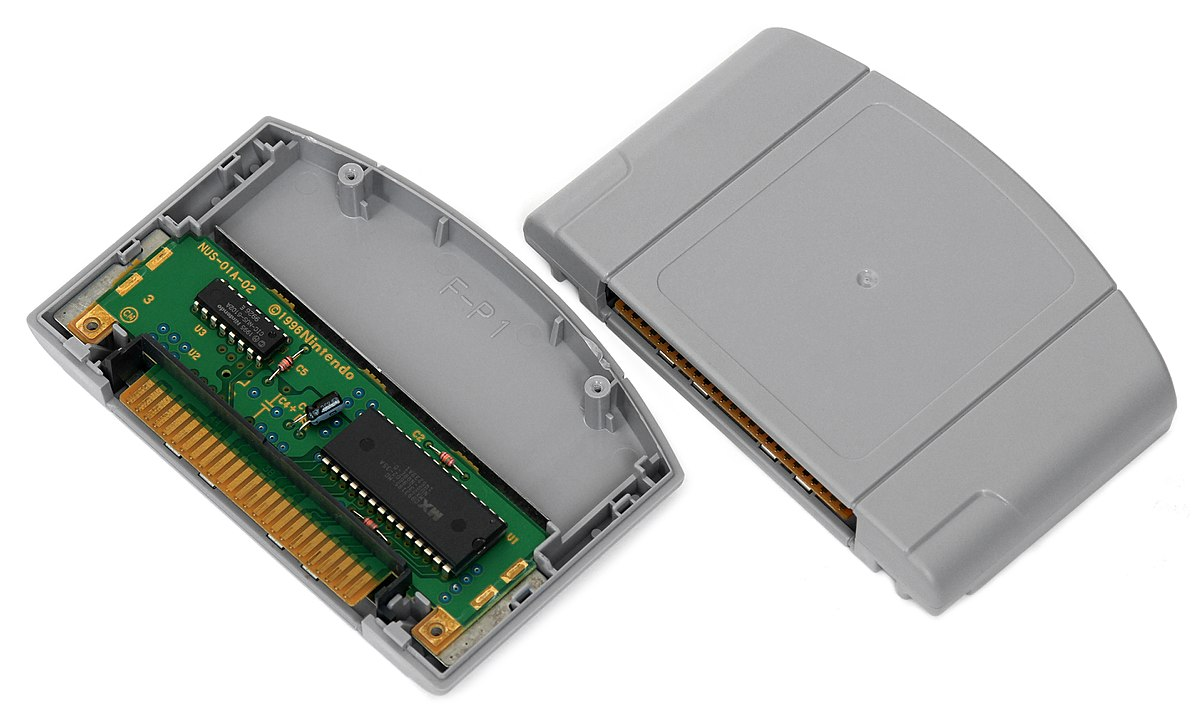
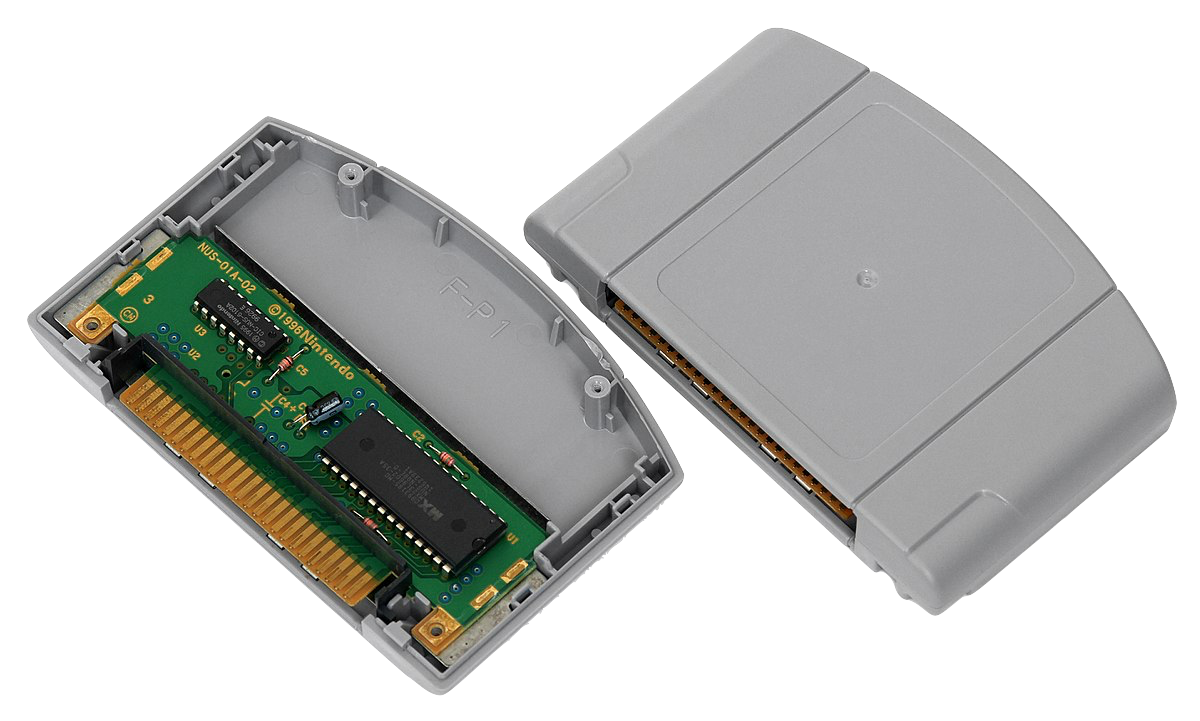
Add files via upload

diff --git a/HomeConsoles.html b/HomeConsoles.html
@@ -33,7 +33,7 @@
         <p>Only game in this console is a port of Nintendo's first video arcade game, Computer Othello. The game can be played head-to-head by two people, or against a computer and was quite sophisticated for the time.</p>
       </div>
       <div class="image">
-        <img src="Images/Home Consoles/Image1.png" width="100%">
+        <img src="Images/Home Consoles/Image1.jpg" width="100%">
       </div>
       <div class="text">
         <h2>NES (1986)</h2>
@@ -42,7 +42,7 @@
         </p>
       </div>
       <div class="image">
-        <img src="Images/Home Consoles/Image2.png" width="100%">
+        <img src="Images/Home Consoles/Image2.jpg" width="100%">
       </div>
       <div class="text">
         <h2>SNES (1991)</h2>
@@ -51,7 +51,7 @@
         </p>
       </div>
       <div class="image">
-        <img src="Images/Home Consoles/Image3.png" width="100%">
+        <img src="Images/Home Consoles/Image3.jpg" width="100%">
       </div>
       <div class="text">
         <h2>N64 (1996)</h2>
@@ -59,35 +59,35 @@
 
       </div>
       <div class="image">
-          <img src="Images/Home Consoles/Image4.png" width="100%">
+          <img src="Images/Home Consoles/Image4.jpg" width="100%">
       </div>
       <div class="text">
         <h2>GCN (2001)</h2>
         <p>Part of the 6th generation of consoles. Has a similar control to the N64 but c-stick controls are formed into the second Joystick. Is one of the 4 consoles in its race, competing against the PS2, XBOX, and Sega Dreamcast. The second screen controller was innovated by the game boy advanced adapter making it a console compatible with the GBA games. Is the first nintendo console dedicated to having a cd for the optical input for running the games.</p>
       </div>
       <div class="image">
-          <img src="Images/Home Consoles/Image5.png" width="100%">
+          <img src="Images/Home Consoles/Image5.jpg" width="100%">
       </div>
       <div class="text">
         <h2>Wii (2006)</h2>
         <p>Introduced motion controls to the gaming world, with Wifi support, SD card slot and Usb slot. Known for its big sales going up to 100 plus million units sold worldwide. The Wii Mini was introduced later in its life span making it designed of it by lacking the gamecube’s backward compatibility which the Wii original did not.</p>
       </div>
       <div class="image">
-          <img src="Images/Home Consoles/Image6.png" width="100%">
+          <img src="Images/Home Consoles/Image6.jpg" width="100%">
       </div>
       <div class="text">
         <h2>Wii U (2012)</h2>
         <p>The successor of the wii and the origin of the Nintendo e-shop having it a better compatibility with the internet. It's backwards compatible with the wii games, and accessories with the virtual consoles acting as the compatibilty for the games of Nintendo consoles ever since the NES. Also it's the first console of nintendo to endure the high resolution for 1080p. It also the first console to have a gamepad dedicated to the games that fitted the console, standing at 800p for the resolution type of the gamepad.</p>
       </div>
       <div class="image">
-          <img src="Images/Home Consoles/Image7.png" width="100%">
+          <img src="Images/Home Consoles/Image7.jpg" width="100%">
       </div>
       <div class="text">
         <h2>Switch (2017)</h2>
         <p>A hybrid console of the TV Mode and the handheld mode using the tablet as the power for the console. The first nintendo console to use USB type-C as charging port, rather using their own way of charging like the DSI and the 3DS. The switch is the first nintendo console to involve the handheld as a hybrid making the cartridge come back from the N64.</p>
       </div>
       <div class="image">
-          <img src="Images/Home Consoles/Image8.png" width="100%">
+          <img src="Images/Home Consoles/Image8.jpg" width="100%">
       </div>
       <div class="Title">
         <a href="https://fpswolfie.github.io/Resume/"><img src="Images/Ads/Diogo Ads.gif" width='100%'></a>

diff --git a/Inovtions.html b/Inovtions.html
@@ -32,7 +32,7 @@
 
       </div>
       <div class="image">
-        <img src="Images/Inovationsandinventions/Image3.gif" width="100%">
+        <img src="Images/Inovationsandinventions/Image3.jpg" width="100%">
       </div>
       <div class="text">
         <h2>Portable Video Game Consoles</h2>
@@ -47,7 +47,7 @@
 
       </div>
       <div class="image">
-        <img src="Images/Inovationsandinventions/Image4.png" width="100%">
+        <img src="Images/Inovationsandinventions/Image4.jpg" width="100%">
       </div>
       <div class="text">
         <h2>Rumbling controllers</h2>
@@ -55,7 +55,7 @@
 
       </div>
       <div class="image">
-        <img src="Images/Inovationsandinventions/Image5.png" width="100%">
+        <img src="Images/Inovationsandinventions/Image5.jpg" width="100%">
       </div>
       <div class="Title">
         <a href="https://fpswolfie.github.io/Resume/"><img src="Images/Ads/Diogo Ads.gif" width='100%'></a>

diff --git a/index.html b/index.html
@@ -37,13 +37,13 @@
         <p>Also a well known company for their handheld consoles like their Game & Watch series, Game Boy’s, DS’ s and 3DS’s. And also their home consoles like their NES, SNES, N64, GCN, Wii, Wii U and Switch.</p>
       </div>
       <div class="image">
-        <img src="Images/Home/Image1.png">
+        <img src="Images/Home/Image1.jpg">
       </div>
       <div class="box4 ">
-        <img src="Images/Home/Image2.png" style="width:100%">
+        <img src="Images/Home/Image1.jpg" style="width:100%">
       </div>
       <div class="box3">
-        <img src="Images/Home/Image3.png" style="width:100%">
+        <img src="Images/Home/Image1.jpg" style="width:100%">
       </div>
       <div class="box5 text">
         <h2>History</h2>

diff --git a/HandHelds.html b/HandHelds.html
@@ -26,7 +26,7 @@
         </p>
       </div>
       <div class="image1">
-        <img src="Images/Hand Helds/Image1.png" width="100%">
+        <img src="Images/Hand Helds/Image1.jpg" width="100%">
       </div>
       <div class="text">
         <h3>Game Boy (1989 - 2006)</h3>
@@ -71,7 +71,7 @@
 
       </div>
       <div class="image4">
-        <img src="Images/Hand Helds/image4.png" width="100%">
+        <img src="Images/Hand Helds/image4.jpg" width="100%">
       </div>
       <div class="Title">
         <a href="https://fpswolfie.github.io/Resume/"><img src="Images/Ads/Diogo Ads.gif" width='100%'></a>

diff --git a/Trademarks.html b/Trademarks.html
@@ -28,7 +28,7 @@
           <p>Switch: “THERE’S NO PLAY LIKE THIS”, “WHENEVER WHEREVER” </p>
       </div>
       <div class="images">
-        <img src="Images/TradeMarks/Image1.png" width="100%">
+        <img src="Images/TradeMarks/Image1.jpg" width="100%">
       </div>
       <div class="images">
         <img src="Images/TradeMarks/Image2.gif" width="100%">
